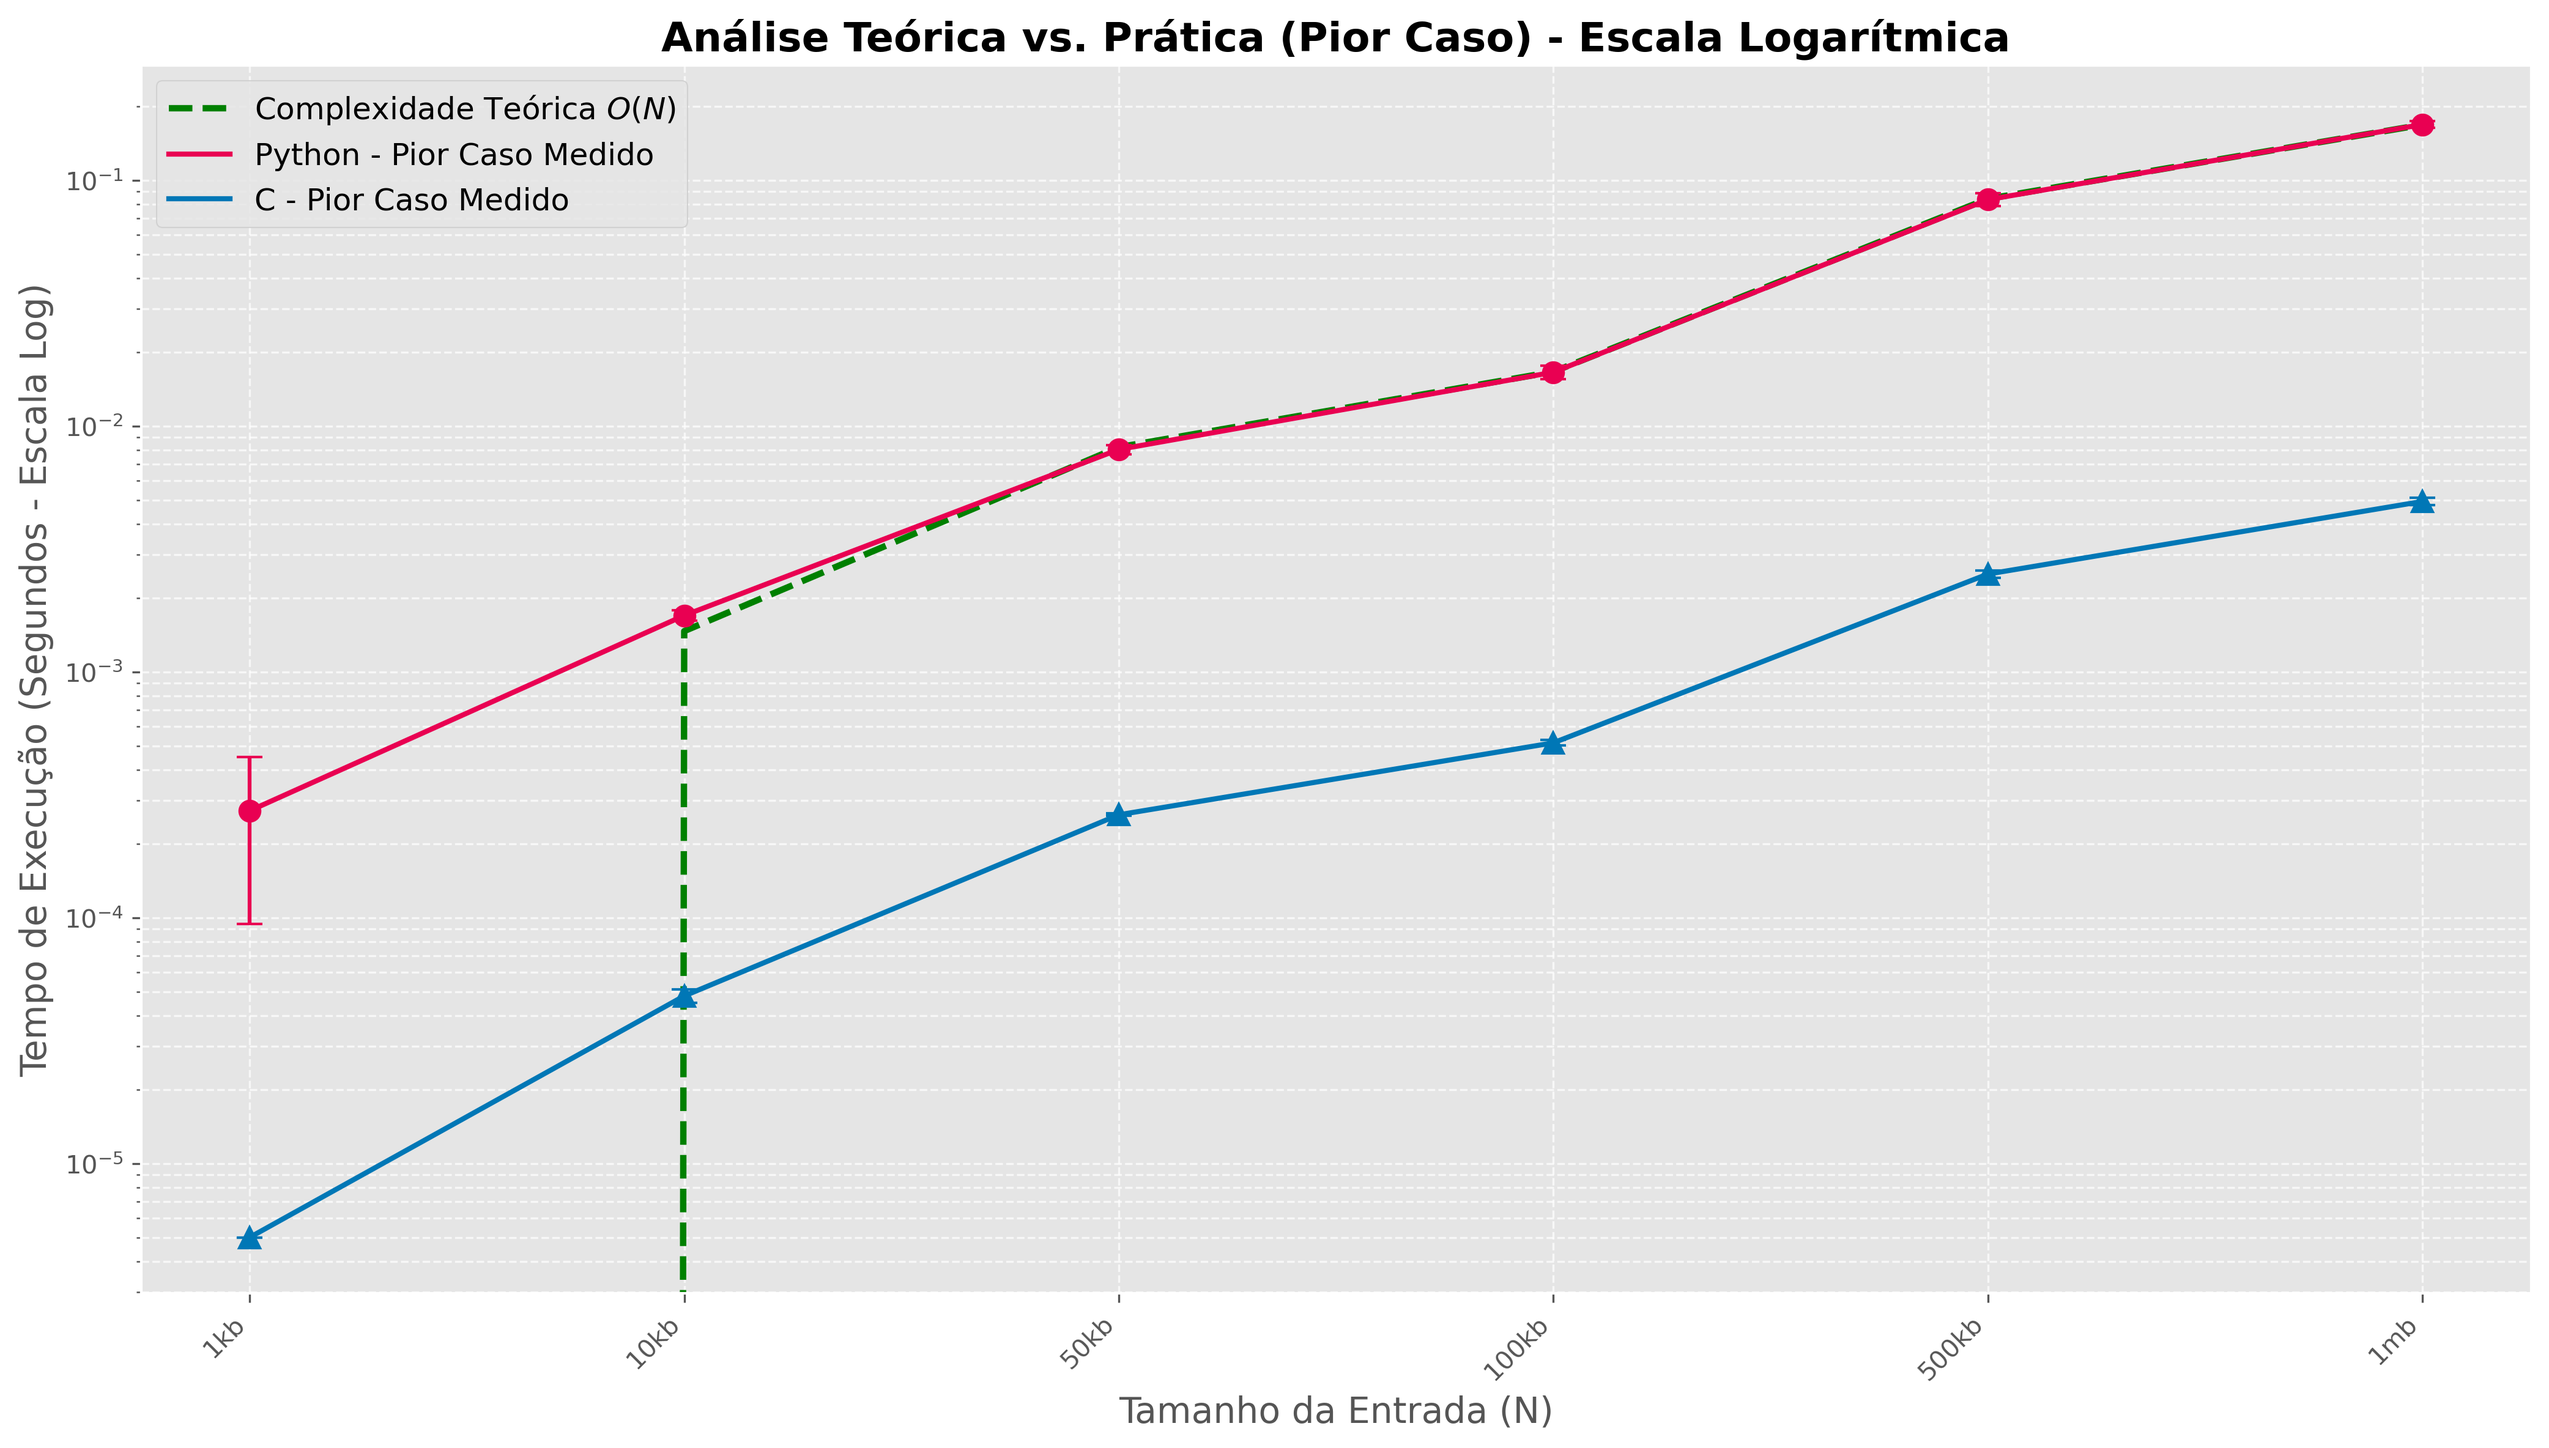
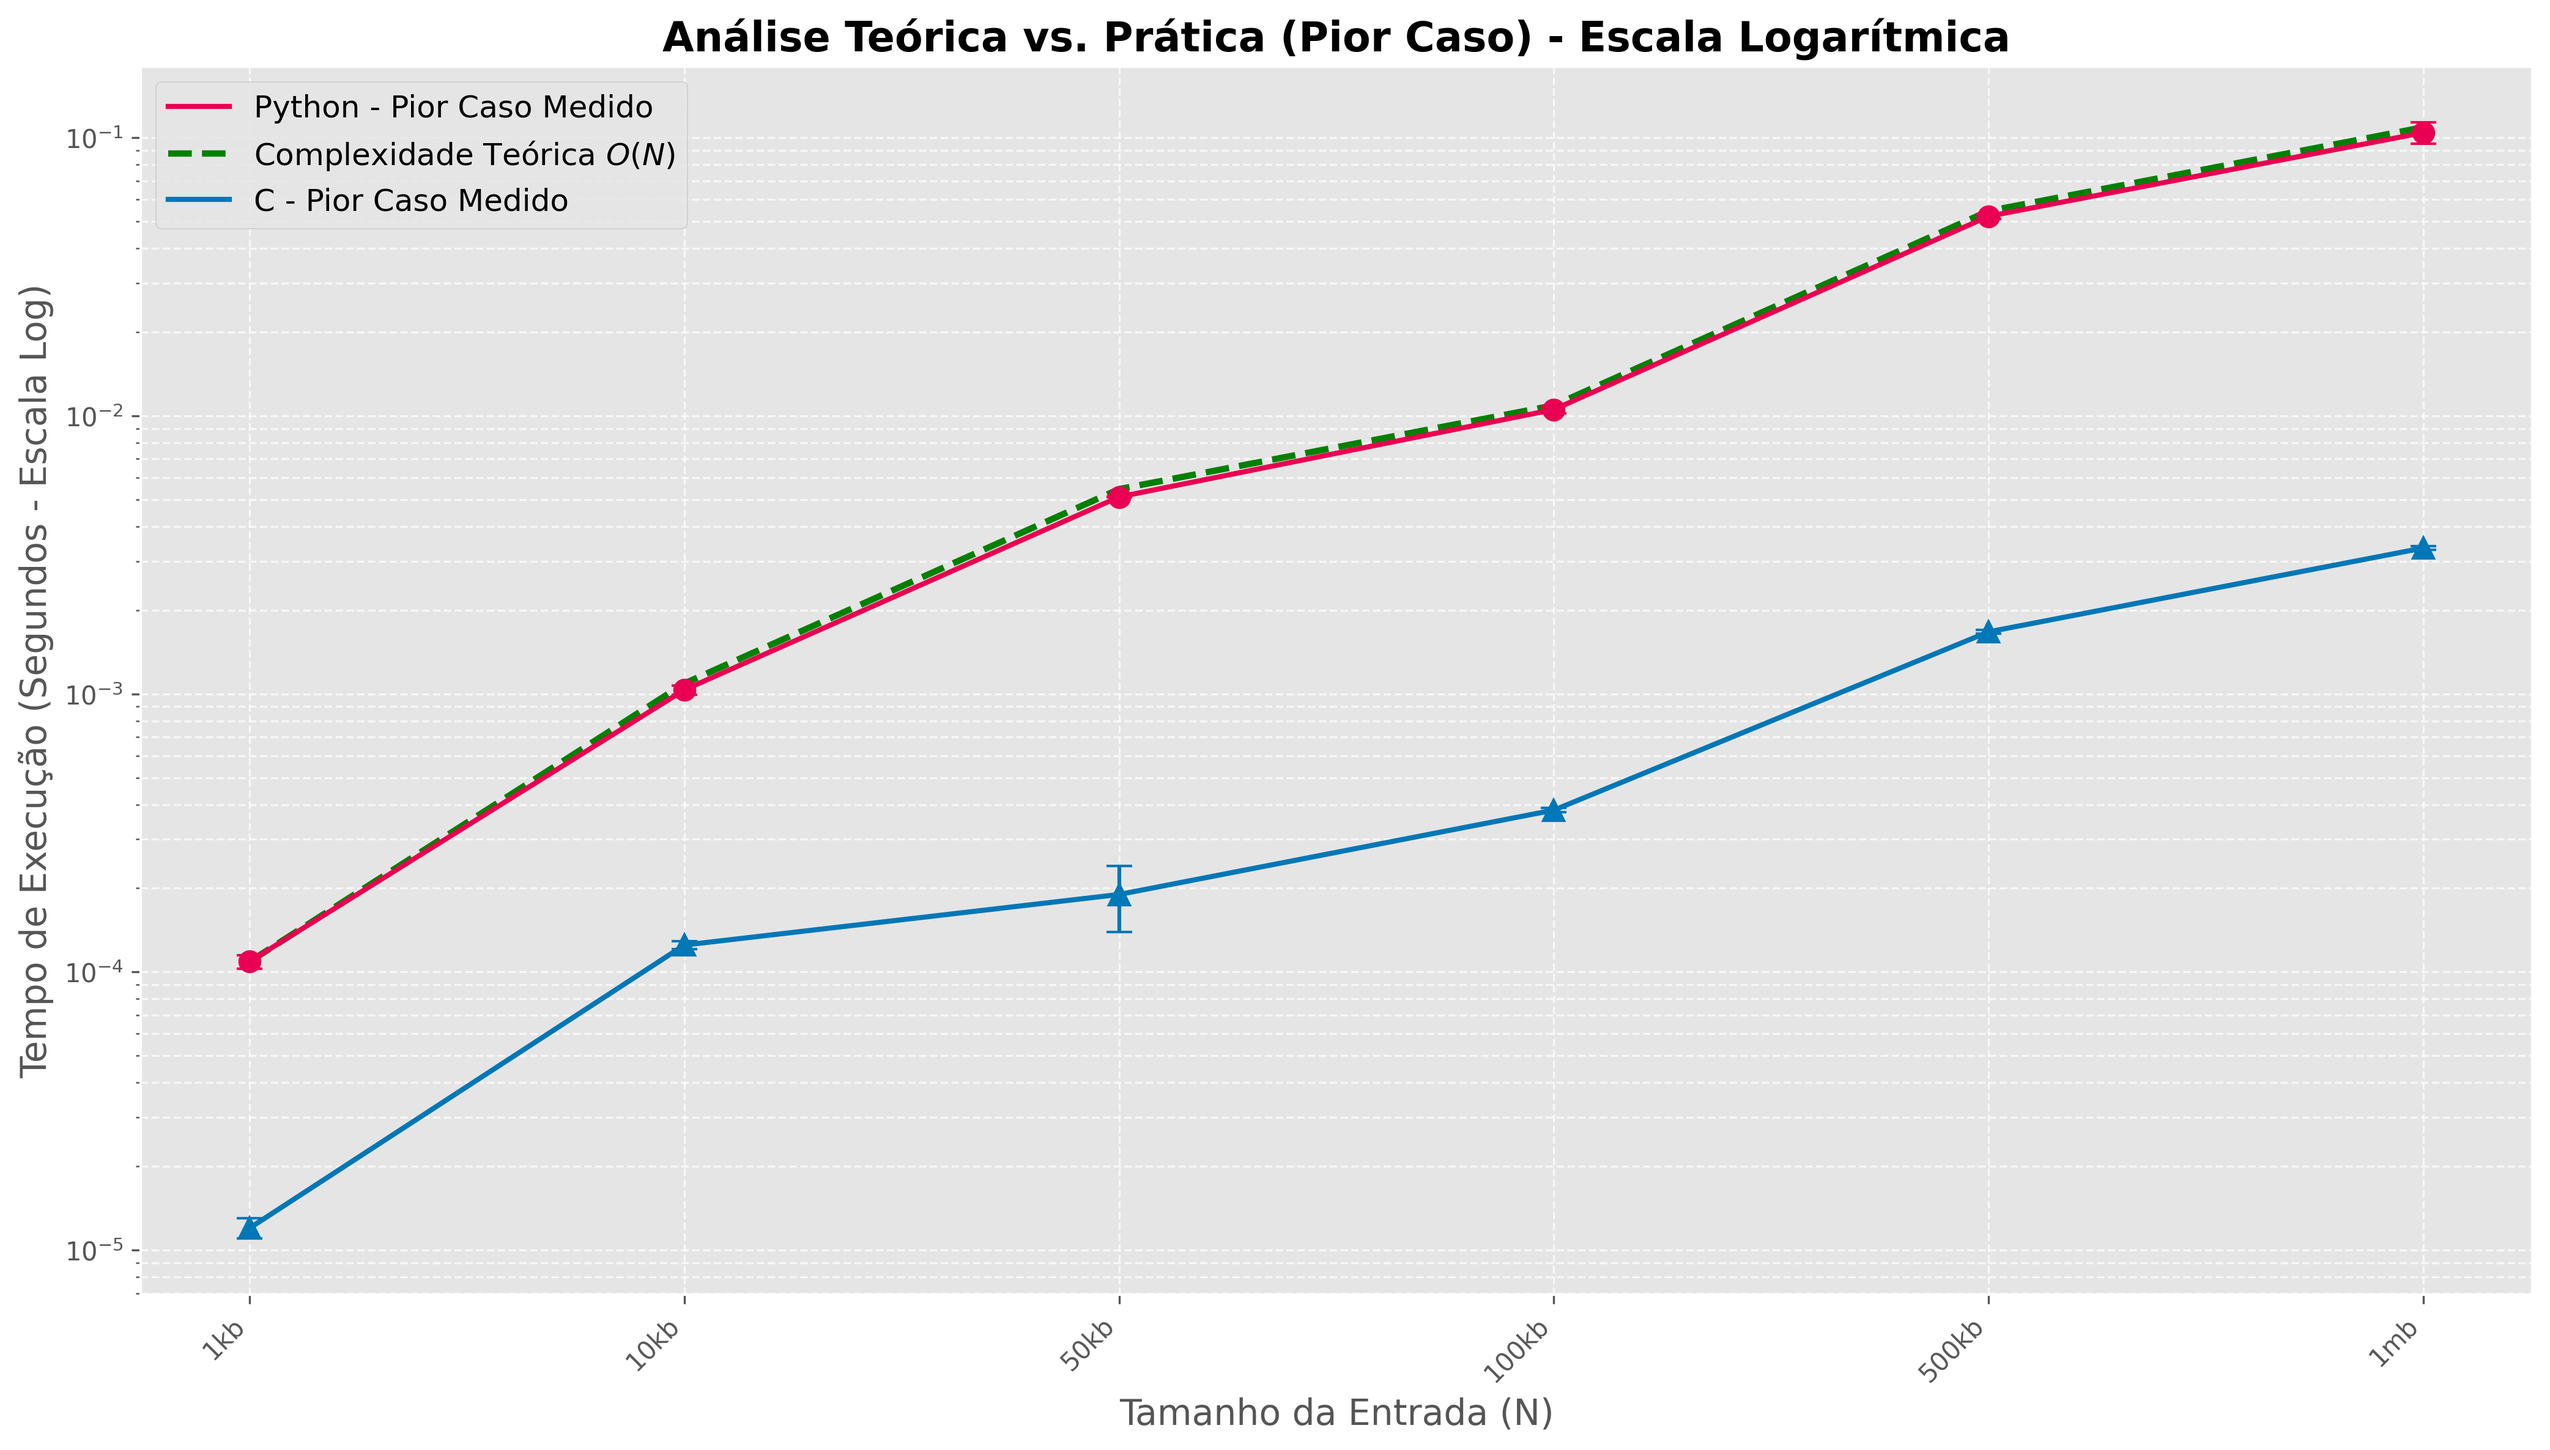
atualizacao graficos

diff --git a/comparacao_kmp.py b/comparacao_kmp.py
@@ -171,20 +171,6 @@ tamanhos_unicos = sorted(df['n'].unique())
 x_labels = [bytes_to_label(n) for n in tamanhos_unicos]
 x_ticks = np.arange(len(x_labels))
 
-# Calcular curva teórica O(N) - ajustada aos dados
-dados_teorico = df[(df['linguagem']=='Python') & (df['tipo_caso']=='PIOR CASO')]
-x_teorico = dados_teorico['n'].values
-y_teorico = dados_teorico['tempo_medio'].values
-
-# Ajuste linear para curva teórica (não arbitrária!)
-slope_teorico, intercept_teorico, _, _, _ = linregress(x_teorico, y_teorico)
-curva_teorica = slope_teorico * np.array(tamanhos_unicos) + intercept_teorico
-
-# Plotar curva teórica
-ax.plot(x_ticks, curva_teorica, '--', color='green', linewidth=2.5,
-        label='Complexidade Teórica $O(N)$', zorder=1)
-
-# Plotar Python - Pior Caso
 for i, n in enumerate(tamanhos_unicos):
     dado = df[(df['linguagem']=='Python') & (df['tipo_caso']=='PIOR CASO') & (df['n']==n)]
     if not dado.empty:
@@ -201,6 +187,20 @@ for n in tamanhos_unicos:
         y_python.append(dado['tempo_medio'].values[0])
 ax.plot(x_ticks, y_python, '-', color='#e90052', linewidth=2, 
         label='Python - Pior Caso Medido', zorder=2)
+
+# Calcular curva teórica O(N) - ajustada aos dados
+dados_teorico = df[(df['linguagem']=='Python') & (df['tipo_caso']=='PIOR CASO')]
+x_teorico = dados_teorico['n'].values
+y_teorico = dados_teorico['tempo_medio'].values
+
+# Ajuste linear para curva teórica (não arbitrária!)
+slope_teorico, intercept_teorico, _, _, _ = linregress(x_teorico, y_teorico)
+curva_teorica = tamanhos_unicos / tamanhos_unicos[0] * y_python[0]
+
+# Plotar curva teórica
+ax.plot(x_ticks, curva_teorica, '--', color='green', linewidth=2.5,
+        label='Complexidade Teórica $O(N)$', zorder=1)
+
 
 # Plotar C - Pior Caso
 for i, n in enumerate(tamanhos_unicos):
